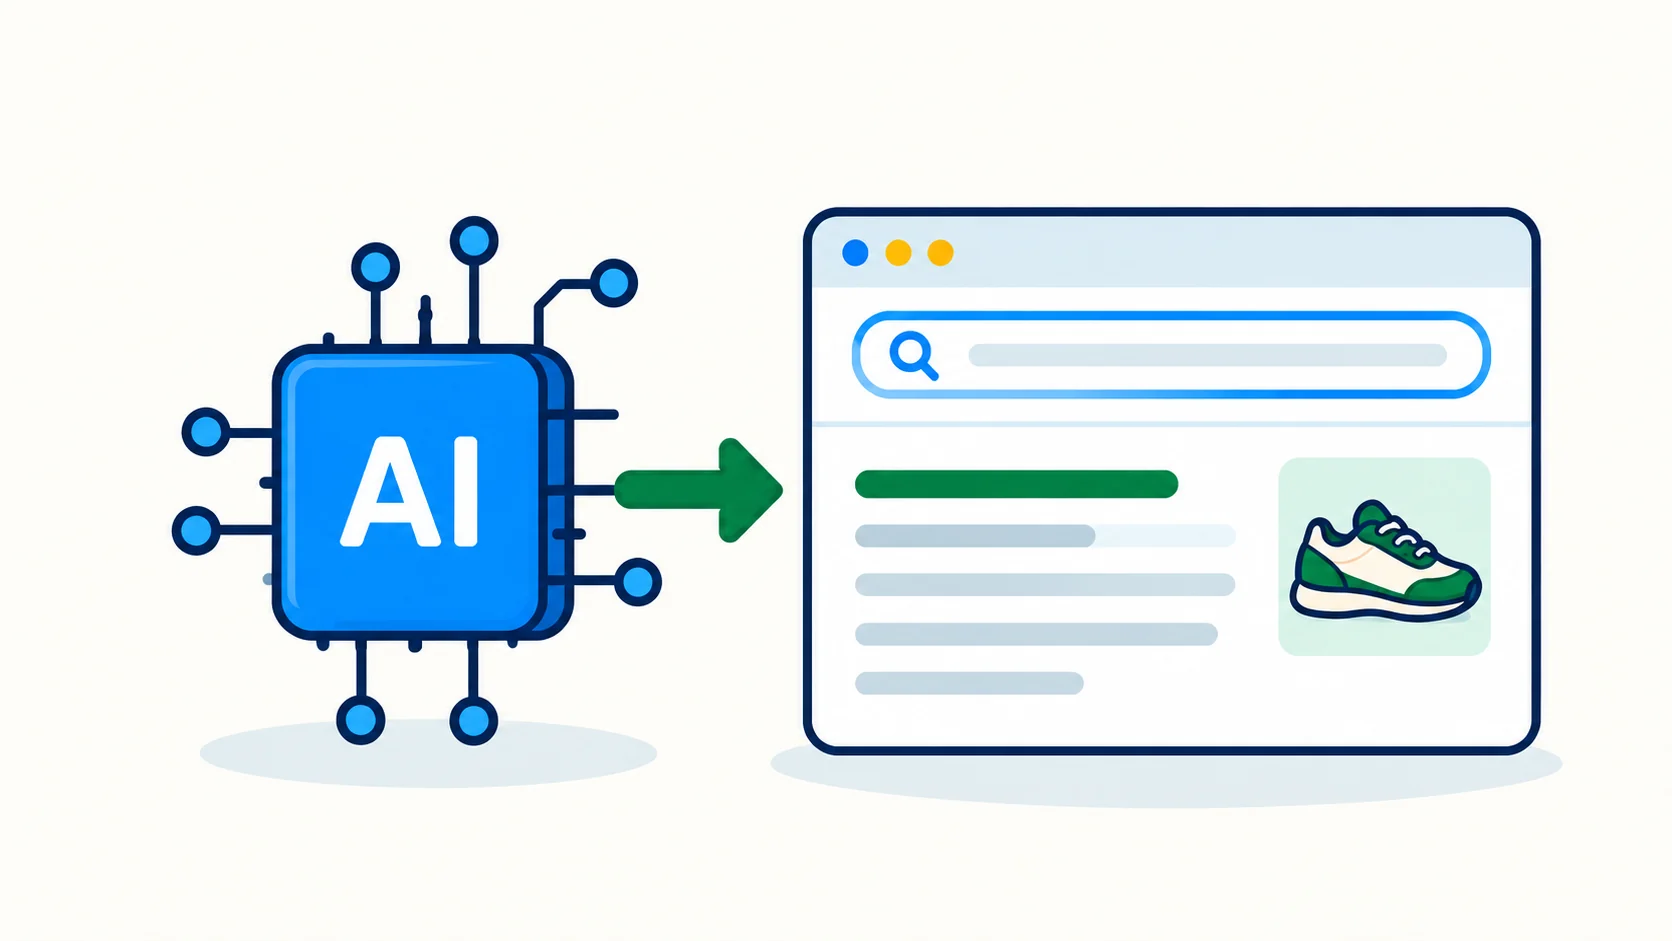
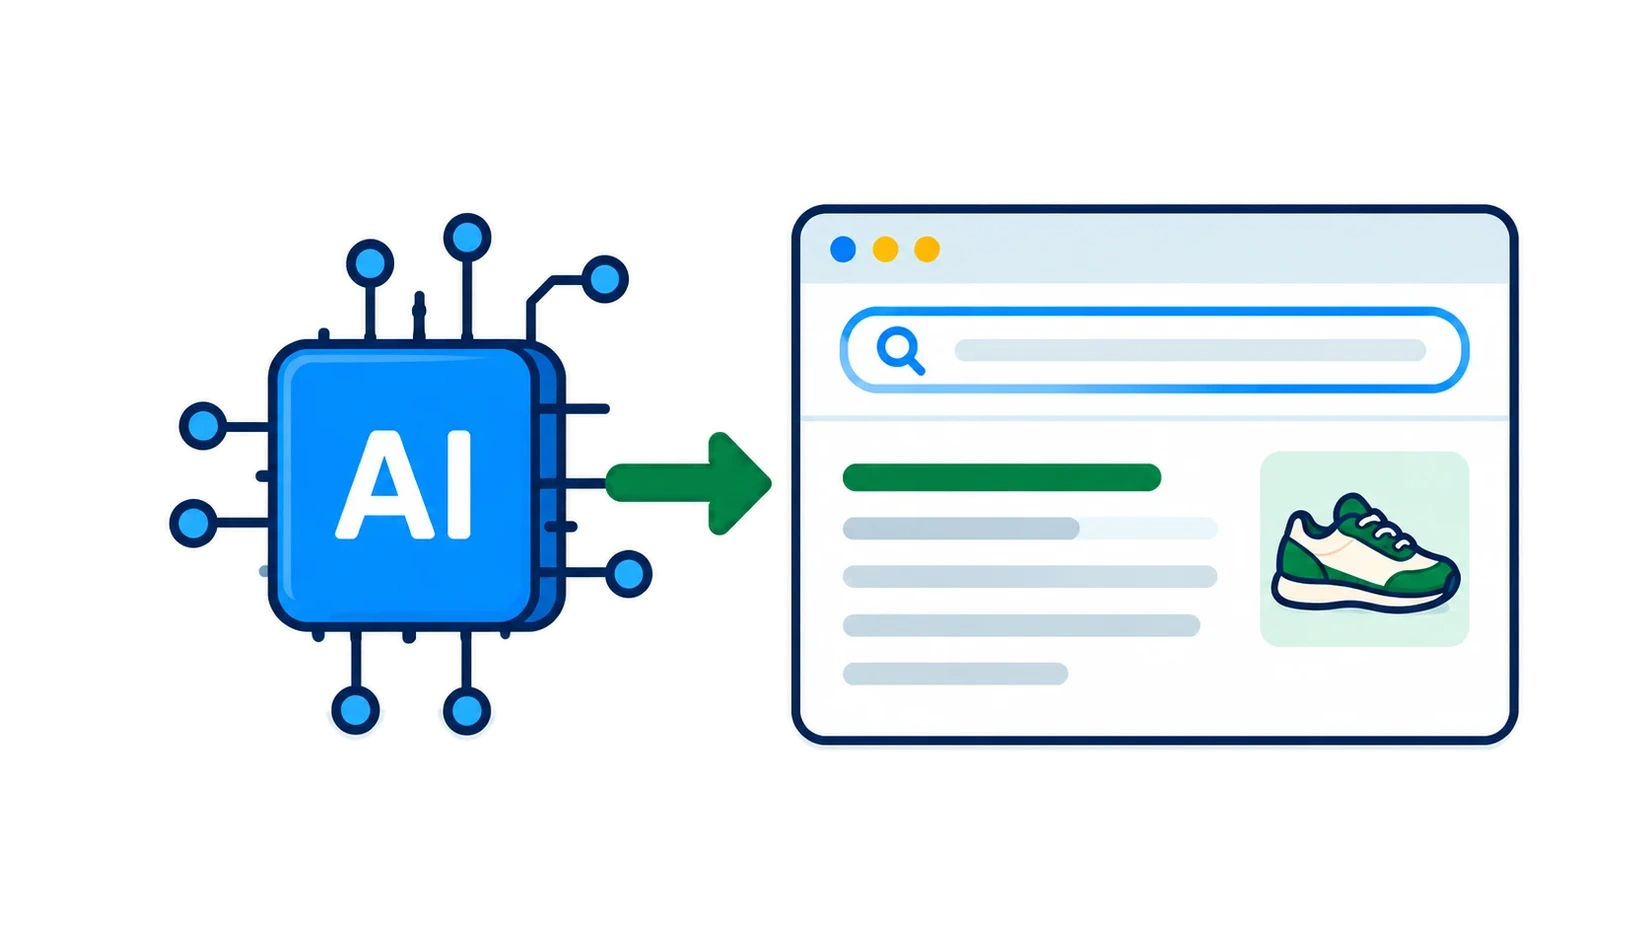
Fix Go Deeper artwork at source and unify card panels
* Add temporary artwork-background cleanup for three opaque Go Deeper images

* Generate corrected transparent Go Deeper art directly from approved originals

* Remove baked-in mattes from three Go Deeper images

* Use one image canvas across all eight Go Deeper cards

* Refresh Go Deeper thumbnail assets and shared stylesheet

* Remove temporary Go Deeper image processing tooling

* Remove temporary Go Deeper image processing tooling

---------

Changed region(s): [[0.4642, 0.7812, 0.9284, 0.875], [0.1238, 0.75, 0.4023, 0.8438]]

diff --git a/blog/index.html b/blog/index.html
@@ -69,7 +69,7 @@ j=d.createElement(s),dl=l!='dataLayer'?'&l='+l:'';j.async=true;j.src=
       <link rel="preload" as="image" href="../penstack-blog-main-banner-v2.webp" type="image/webp" fetchpriority="high">
 <link rel="stylesheet" href="../styles.css?v=20261004-footer-colors">
   <link rel="stylesheet" href="blog.css?v=12">
-  <link rel="stylesheet" href="blog-index.css?v=10">
+  <link rel="stylesheet" href="blog-index.css?v=11">
   <link rel="stylesheet" href="../brand.css?v=20261004-green-cta">
 </head>
 <body>
@@ -320,7 +320,7 @@ height="0" width="0" style="display:none;visibility:hidden"></iframe></noscript>
       </div>
       <div class="journey-card-grid">
         <article class="guide-card published" data-level="go-deeper" data-topic="seo">
-                <a class="guide-image" href="ai-seo-search-visibility.html"><img src="../ai-seo-how-ai-changes-search.webp" width="1648" height="928" loading="lazy" alt="AI chip feeding information into a product search result page">
+                <a class="guide-image" href="ai-seo-search-visibility.html"><img src="../ai-seo-how-ai-changes-search.webp?v=backgroundfix-20261011" width="1648" height="928" loading="lazy" alt="AI chip feeding information into a product search result page">
                 </a>
                 <div class="guide-body">
                   <div class="guide-labels">
@@ -333,7 +333,7 @@ height="0" width="0" style="display:none;visibility:hidden"></iframe></noscript>
               </article>
 
         <article class="guide-card published" data-level="go-deeper" data-topic="images agency testing">
-                <a class="guide-image" href="ecommerce-image-accessibility-qa.html"><img src="../image-accessibility-qa-standard.webp" width="1648" height="928" loading="lazy" alt="Product image connected to an accessibility checklist with verified image, text, and tag elements"></a>
+                <a class="guide-image" href="ecommerce-image-accessibility-qa.html"><img src="../image-accessibility-qa-standard.webp?v=backgroundfix-20261011" width="1648" height="928" loading="lazy" alt="Product image connected to an accessibility checklist with verified image, text, and tag elements"></a>
                 <div class="guide-body">
                   <div class="guide-labels"><span class="topic-badge">Images + Accessibility</span></div>
                   <h3><a href="ecommerce-image-accessibility-qa.html">How to Build an Image Accessibility QA Standard for Your Catalog</a></h3>
@@ -343,7 +343,7 @@ height="0" width="0" style="display:none;visibility:hidden"></iframe></noscript>
               </article>
 
         <article class="guide-card published" data-level="go-deeper" data-topic="testing listings">
-                <a class="guide-image" href="ab-test-product-page.html"><img src="../One-variable%20product%20page%20test-6.webp" width="1648" height="928" loading="lazy" alt="Two nearly identical product pages with a pencil illustrating a one-variable A/B test"></a>
+                <a class="guide-image" href="ab-test-product-page.html"><img src="../One-variable%20product%20page%20test-6.webp?v=backgroundfix-20261011" width="1648" height="928" loading="lazy" alt="Two nearly identical product pages with a pencil illustrating a one-variable A/B test"></a>
                 <div class="guide-body">
                   <div class="guide-labels">
                     <span class="topic-badge">Optimization + Testing</span>

diff --git a/blog/blog-index.css b/blog/blog-index.css
@@ -1074,3 +1074,7 @@
 .journey-go-deeper .guide-card a[href="audit-inherited-shopify-catalog.html"].guide-image img,
 .journey-go-deeper .guide-card a[href="product-listing-qa-standard.html"].guide-image img,
 .journey-go-deeper .guide-card a[href="multi-brand-store-boundaries.html"].guide-image img{background:transparent;object-fit:contain;object-position:center;padding:0;transform:none}
+
+/* Unified image canvas for every Go Deeper guide, including transparent artwork. */
+.journey-go-deeper .guide-card a.guide-image{background:#faf9f4}
+.journey-go-deeper .guide-card a.guide-image img{background:transparent;object-fit:contain;object-position:center;transform:none;padding:0}
